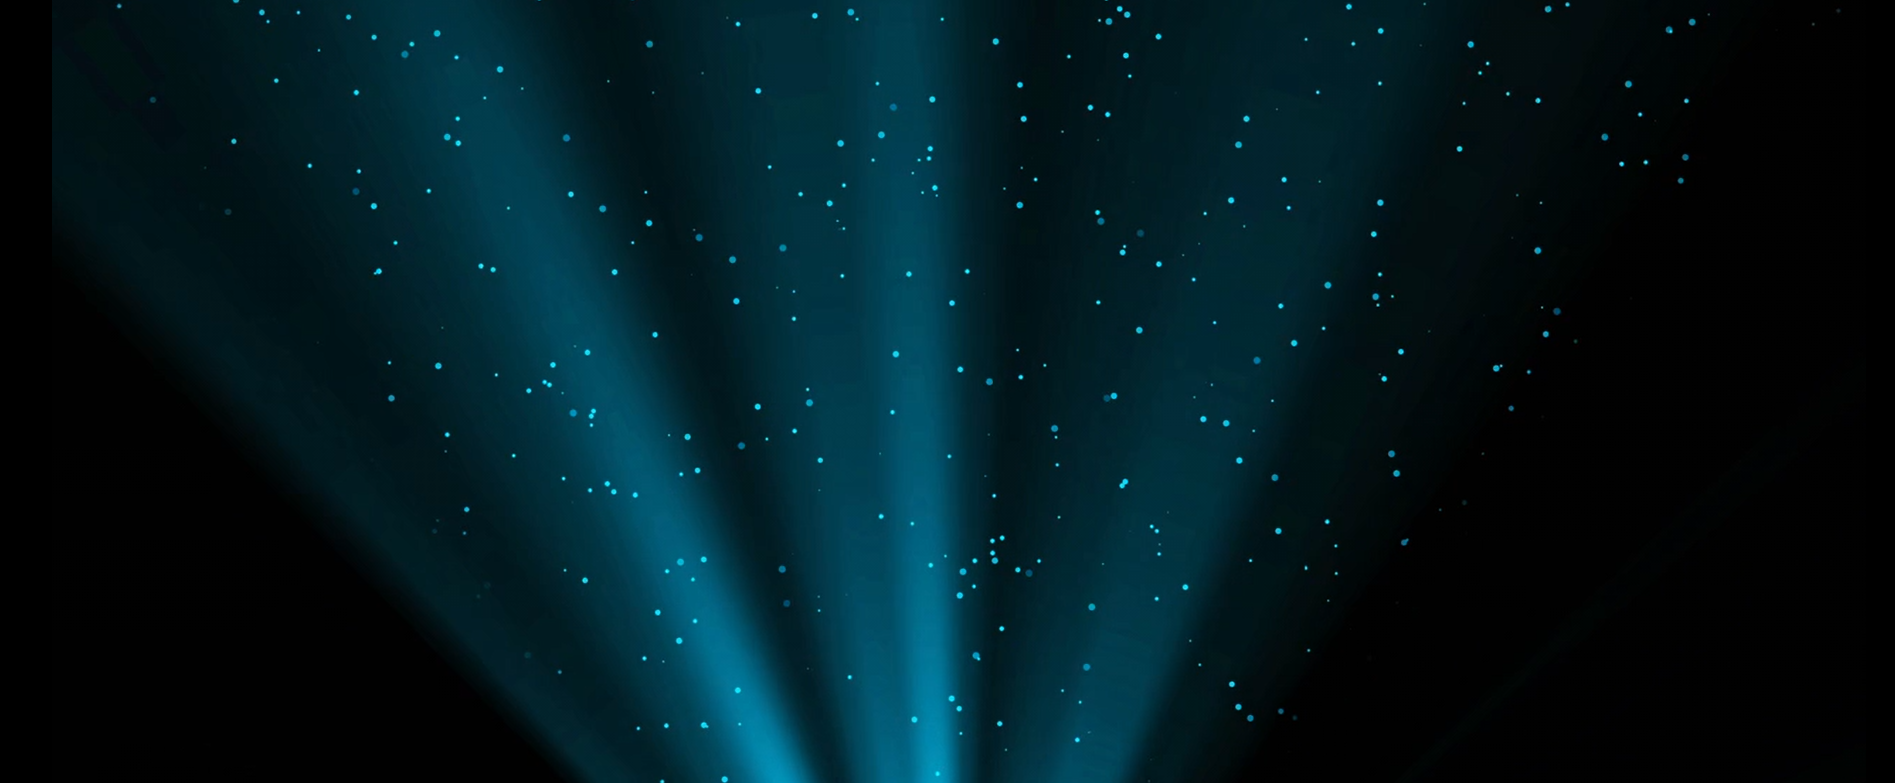
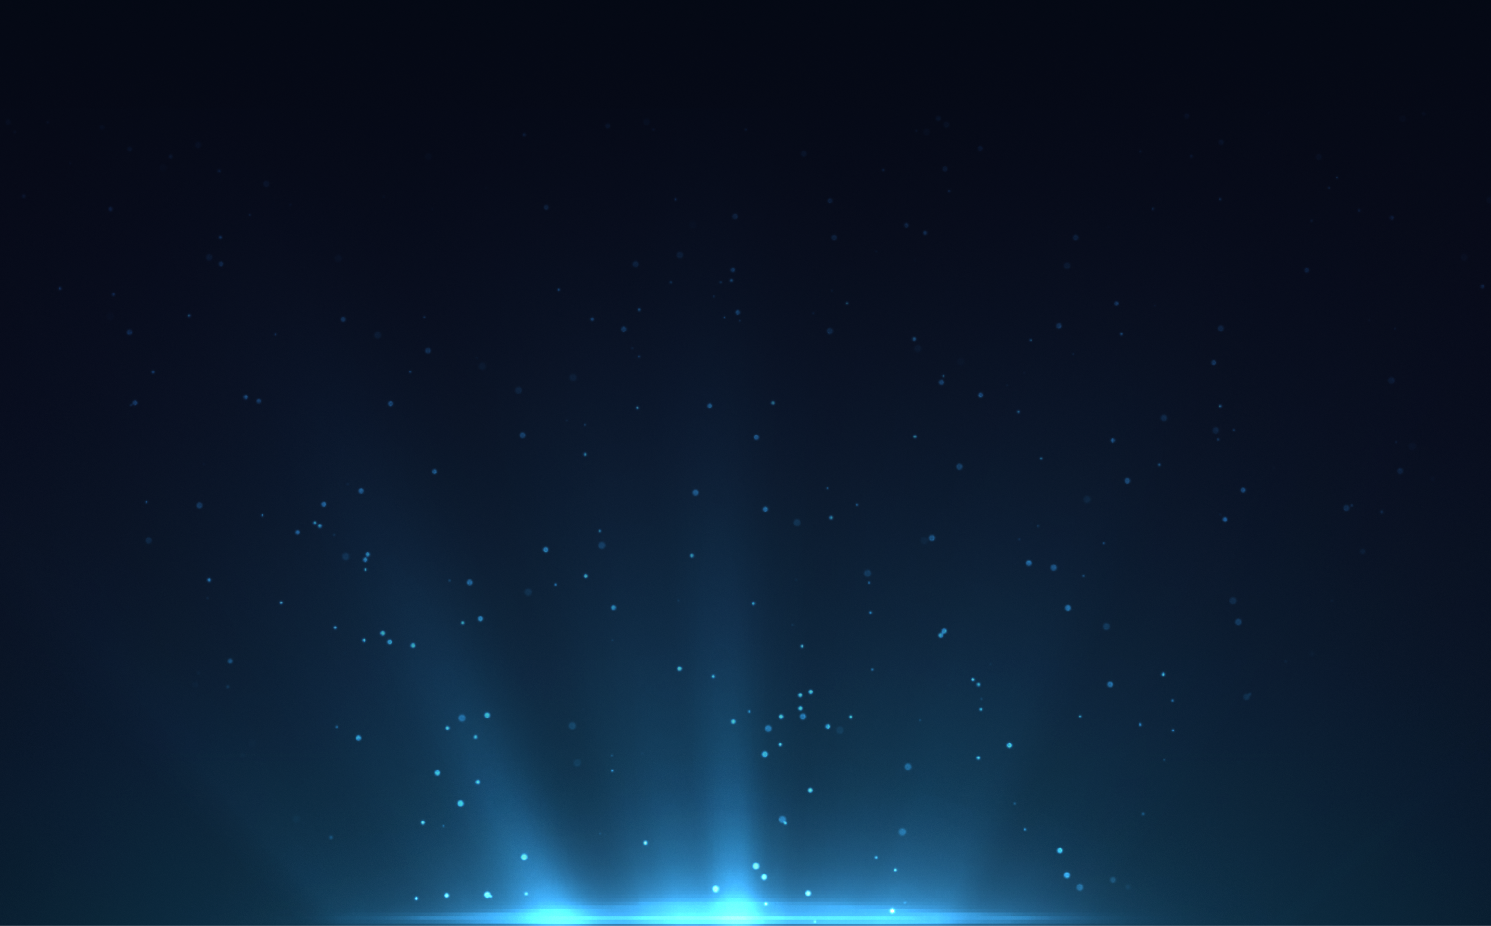
updated holding page

diff --git a/app/page.tsx b/app/page.tsx
@@ -5,8 +5,7 @@ import "./globals.css";
 export default function Home() {
   return (
     <div className="background">
-      <div className="bottomImage"></div>
-      <div className="backgroundColor w-screen h-screen flex justify-center ">
+      <div className="w-screen h-screen flex justify-center ">
       <main className="flex flex-col w-[40%] items-center text-white justify-center">
         <div className="flex gap-4">
           <img src="/images/logo.svg"></img>
@@ -23,10 +22,11 @@ export default function Home() {
             <label className="titleFont text-[16px] text-center">Presale Launch Coming Soon!</label>
           </div>
 
-          <div className="flex justify-center gap-8 mt-8 w-full">
+          <div className="flex justify-center gap-4 mt-8 w-full">
             <img src="/images/twitter.png"></img>
             <img src="/images/medium.png"></img>
             <img src="/images/telegram.png"></img>
+            <img src="/images/youtube.png"></img>
           </div>
         </div>
       </main>
